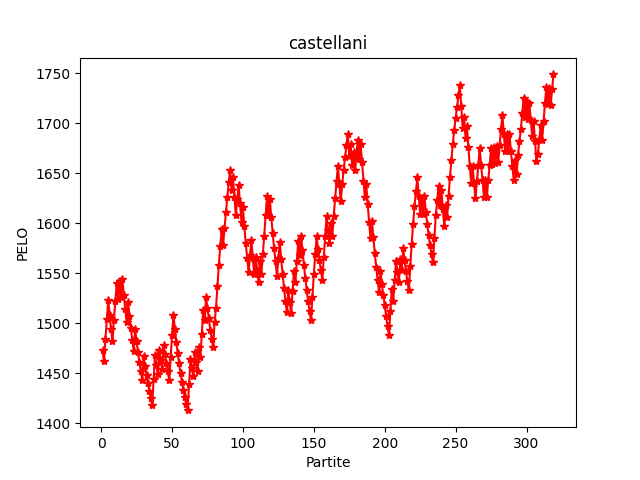
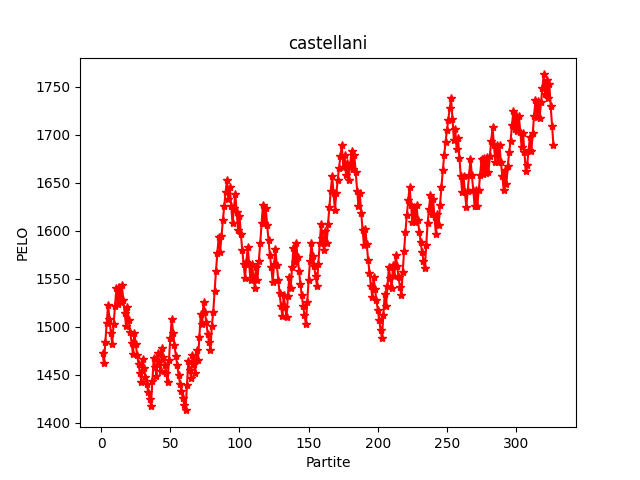
Add files via upload

diff --git a/index.htm b/index.htm
@@ -18,23 +18,32 @@
     <tr>
       <th>0</th>
       <td><a href='castellani.png'>castellani</a></td>
-      <td>1749</td>
-      <td>480</td>
-      <td>218</td>
-      <td>4529</td>
-      <td>4779</td>
+      <td>1689</td>
+      <td>488</td>
+      <td>221</td>
+      <td>4617</td>
+      <td>4867</td>
     </tr>
     <tr>
       <th>1</th>
       <td><a href='zontini.png'>zontini</a></td>
       <td>1685</td>
-      <td>263</td>
-      <td>138</td>
-      <td>2626</td>
-      <td>2562</td>
+      <td>271</td>
+      <td>142</td>
+      <td>2712</td>
+      <td>2654</td>
     </tr>
     <tr>
       <th>2</th>
+      <td><a href='malvagi.png'>malvagi</a></td>
+      <td>1641</td>
+      <td>74</td>
+      <td>41</td>
+      <td>752</td>
+      <td>716</td>
+    </tr>
+    <tr>
+      <th>3</th>
       <td><a href='devigili.png'>devigili</a></td>
       <td>1616</td>
       <td>13</td>
@@ -43,7 +52,7 @@
       <td>100</td>
     </tr>
     <tr>
-      <th>3</th>
+      <th>4</th>
       <td><a href='caprile.png'>caprile</a></td>
       <td>1606</td>
       <td>198</td>
@@ -52,22 +61,13 @@
       <td>1782</td>
     </tr>
     <tr>
-      <th>4</th>
+      <th>5</th>
       <td><a href='turino.png'>turino</a></td>
       <td>1596</td>
       <td>15</td>
       <td>10</td>
       <td>141</td>
       <td>132</td>
-    </tr>
-    <tr>
-      <th>5</th>
-      <td><a href='malvagi.png'>malvagi</a></td>
-      <td>1570</td>
-      <td>68</td>
-      <td>37</td>
-      <td>688</td>
-      <td>658</td>
     </tr>
     <tr>
       <th>6</th>
